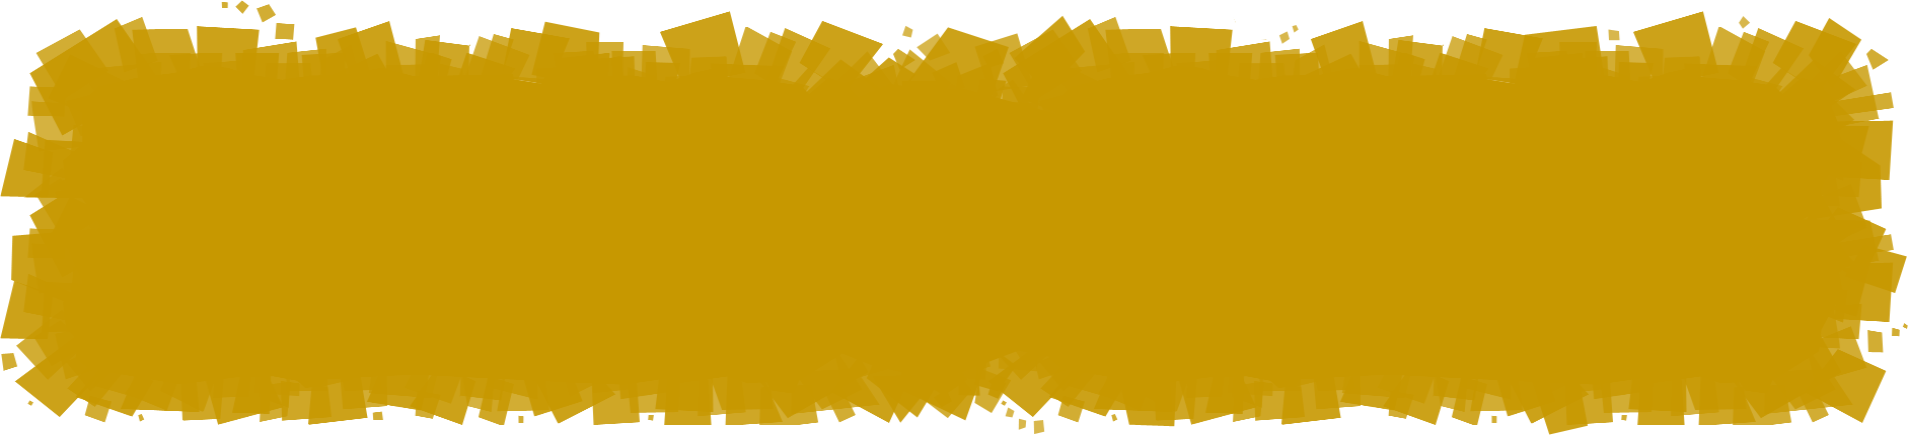
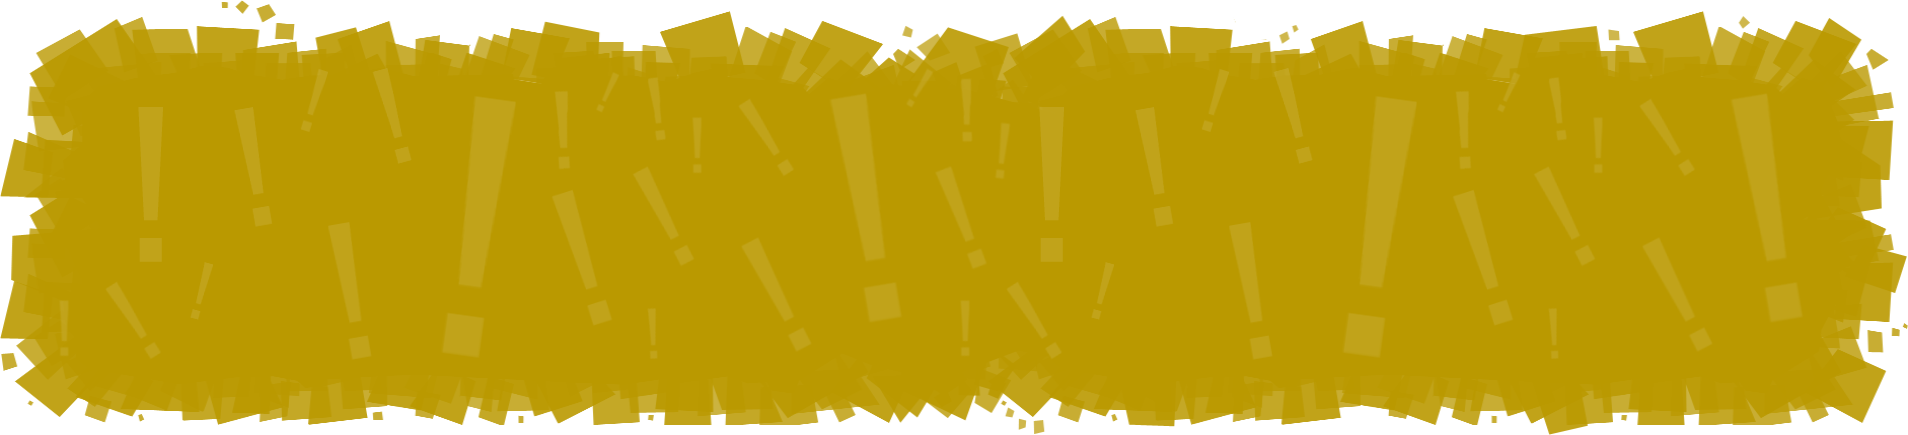
Added Blue textbox for hint. Updated Player Controller to display blue hint textbox

diff --git a/Assets/Scripts/Textbox/FadeInFadeOut.cs b/Assets/Scripts/Textbox/FadeInFadeOut.cs
@@ -4,7 +4,7 @@ using System.Collections;
 
 public class FadeInFadeOut : MonoBehaviour {
 
-	public Sprite[] textboxImages = new Sprite[2];
+	private Sprite[] textboxImages = new Sprite[3];
 	public bool isActivated = false;
 	public bool isFadingOn = false;
 	public float alpha;
@@ -19,7 +19,14 @@ public class FadeInFadeOut : MonoBehaviour {
 	public GameObject button;
 	public bool eventStatus = false;
 		
-	// Use this for initialization
+
+	void Awake()
+	{
+		textboxImages [0] =  Resources.Load<Sprite> ("GUI/ui_bkg_textbox");	// black for default
+		textboxImages [1] =  Resources.Load<Sprite> ("GUI/ui_bkg_textbox_gold") as Sprite;	// GOLD for Event
+		textboxImages [2] =  Resources.Load<Sprite> ("GUI/ui_bkg_textbox_blue") as Sprite;	// BLUE for Hint
+	}
+
 	void Start () {
 		feedText = transform.GetComponentInChildren<FeedTextFromObject> ();
 
@@ -41,18 +48,23 @@ public class FadeInFadeOut : MonoBehaviour {
 		eventStatus = _status;
 	}
 
-	public void TurnOnTextbox(bool _fadingOption)
+	public void TurnOnTextbox(bool _fadingOption, bool _isHint = false)
 	{
 		isActivated = true;
 		button.SetActive (true);
 		isFadingOn = _fadingOption;
 		gameObject.GetComponent<Image>().color = new Color(defaultColor.r, defaultColor.g, defaultColor.b, defaultAlpha);
 
-		if (!EndingController.instance.isChapter2Activated && eventStatus) {
+		if (_isHint) { // use BLUE textbox for hint dialogue
+			transform.GetComponent<Image> ().sprite = textboxImages [2];
+		}
+		else if (!EndingController.instance.isChapter2Activated && eventStatus) { // use gold textbox for chapter 1 event dialogue
 			transform.GetComponent<Image> ().sprite = textboxImages [1];
 			gameObject.GetComponent<Image> ().color = new Color (defaultColor.r, defaultColor.g, defaultColor.b, 0.8f);
-		} else
+		}
+		else{ // use black for default dialogue
 			transform.GetComponent<Image> ().sprite = textboxImages [0];
+		}
 	}
 
 	public bool getStatus()

diff --git a/Assets/Scripts/Controllers/PlayerController.cs b/Assets/Scripts/Controllers/PlayerController.cs
@@ -221,7 +221,7 @@ public class PlayerController : MonoBehaviour {
 			bool hasItem = hintDic.TryGetValue (chosenHint, out respond);
 			if (hasItem) {
 				GameObject.Find ("ObjectRespond").GetComponent<FeedTextFromObject> ().SetText (respond);
-				targetTextbox.GetComponent<FadeInFadeOut> ().TurnOnTextbox (false);
+				targetTextbox.GetComponent<FadeInFadeOut> ().TurnOnTextbox (false, true);
 			}
 		}
 	}

diff --git a/Assets/Scripts/Textbox/BubbleBehaviour.cs b/Assets/Scripts/Textbox/BubbleBehaviour.cs
@@ -7,9 +7,7 @@ public class BubbleBehaviour : MonoBehaviour {
 
 	public GameObject target;
 	public GUITexture overlay;
-
-	//private string fileName = "Sprites/Textbubble/textbubble_";
-	//private int spriteLength = 4;
+	
 	public bool canTrigger = false;
 	public bool itemStatus = false;
 
